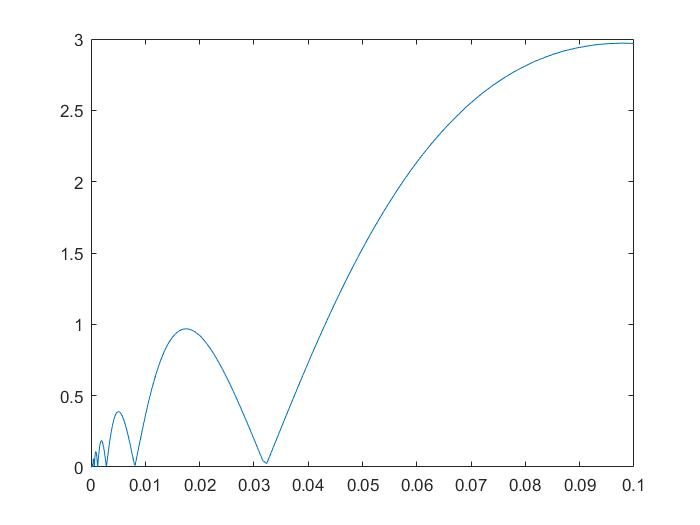
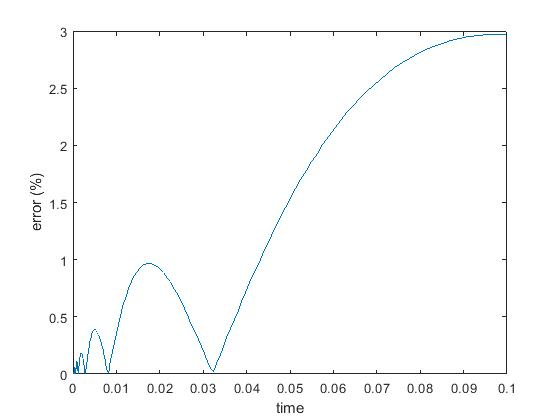
Add files via upload

diff --git a/emprj3/skytem.m b/emprj3/skytem.m
@@ -2,22 +2,21 @@ clc;
 clear;
 format long e;
 
-I=1;
-rs=[10];
-sigma=1./rs;
-th=[0];
+I=9;
+sigma=[1,10,1];
+th=[0,5,50];
 b=10;
-a=110;
-tm = -5:0.01:-1;
+a=185;
+tm = -5:0.08:-1;
 time=10.^tm;
 mu=4*pi*10^(-7);
-airflag=0;
-airheight=0;
+airflag=1;
+airheight=50;
 [V] = TEM(time,I,sigma,th,a,b,airheight,airflag);
 for t=1:length(time)
     appsigma(t)=((1/(I*pi*b^2))*V(t)*20*sqrt(pi)*(1/a^2)*(1/mu^(5/2))*time(t)^(5/2))^(2/3);
 end
-loglog(time,1./appsigma ,'LineWidth',2)
+loglog(time,appsigma, 'LineWidth',3);
 grid on
 xlabel('t') 
-ylabel('apparent resistivity (ohmm)') 
+ylabel('apparent conductivity (S/m)') 

diff --git a/emprj3/q1.m b/emprj3/q1.m
@@ -10,7 +10,9 @@ b=10;
 a=110;
 tm = -5:0.01:-1;
 time=10.^tm;
-[V] = TEM(time,I,sigma,th,a,b);
+airflag=0;
+airheight=0;
+[V] = TEM(time,I,sigma,th,a,b,airheight,airflag);
 hplot1=loglog(time,V, 'LineWidth',3,'displayname','Numerical');
 grid on
 hold on
@@ -30,6 +32,9 @@ hplot2=loglog(time,vv1,'--r' ,'LineWidth',3,'displayname','Analytic');
 legend([hplot1,hplot2])
 xlabel('t') 
 ylabel('V') 
+
 %error
-% (vv1-V)./V*100;
-% plot(time,abs(ans))
+% pererror=(vv1-V)./V*100;
+% plot(time,abs(pererror))
+% xlabel('time') 
+% ylabel('error (%)') 

diff --git a/emprj3/tempest.m b/emprj3/tempest.m
@@ -1,0 +1,21 @@
+clc;
+clear;
+format long e;
+
+I=280;
+rs=[1,10,90];
+sigma=1./rs;
+th=[0,10,50];
+b=10;
+a=185;
+tm = -5:10:-1;
+time=10.^tm;
+airflag=1;
+airheight=200;
+fixedaem=1;
+r=100;
+[V] = TEM(time,I,sigma,th,a,b,airheight,airflag,fixedaem,r);
+loglog(time,V, 'LineWidth',3);
+grid on
+xlabel('t') 
+ylabel('V') 

diff --git a/emprj3/q3.m b/emprj3/q3.m
@@ -10,7 +10,9 @@ a=110;
 tm = -5:0.01:-1;
 time=10.^tm;
 mu=4*pi*10^(-7);
-[V] = TEM(time,I,sigma,th,a,b);
+airflag=0;
+airheight=0;
+[V] = TEM(time,I,sigma,th,a,b,airheight,airflag);
 for t=1:length(time)
     appsigma(t)=((1/(I*pi*b^2))*V(t)*20*sqrt(pi)*(1/a^2)*(1/mu^(5/2))*time(t)^(5/2))^(2/3);
 end

diff --git a/emprj3/q4.m b/emprj3/q4.m
@@ -10,7 +10,9 @@ a=110;
 tm = -5:0.01:-1;
 time=10.^tm;
 mu=4*pi*10^(-7);
-[V] = TEM(time,I,sigma,th,a,b);
+airflag=0;
+airheight=0;
+[V] = TEM(time,I,sigma,th,a,b,airheight,airflag);
 for t=1:length(time)
     appsigma(t)=((1/(I*pi*b^2))*V(t)*20*sqrt(pi)*(1/a^2)*(1/mu^(5/2))*time(t)^(5/2))^(2/3);
 end

diff --git a/emprj3/q2alternate.m b/emprj3/q2alternate.m
@@ -11,7 +11,9 @@ a=110;
 tm = -5:0.01:-1;
 time=10.^tm;
 mu=4*pi*10^(-7);
-[V] = TEM(time,I,sigma,th,a,b);
+airflag=0;
+airheight=0;
+[V] = TEM(time,I,sigma,th,a,b,airheight,airflag);
 hplot1=loglog(time,V, 'LineWidth',3,'displayname','Numerical');
 grid on
 hold on
